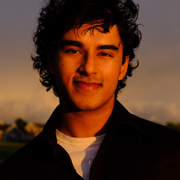
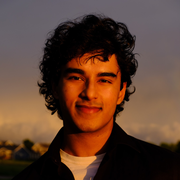
fix(site): improve portrait framing

diff --git a/src/styles/global.css b/src/styles/global.css
@@ -188,7 +188,7 @@ p {
   width: 100%;
   height: 100%;
   object-fit: cover;
-  object-position: 50% 56%;
+  object-position: 50% 25%;
 }
 
 .hero-copy {
